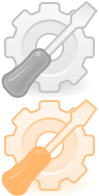
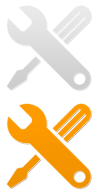
Изменил иконки разделов, поправил ховер разделов.

diff --git a/web/login.css b/web/login.css
@@ -40,8 +40,11 @@ input[type='text'], input[type='password'] {
 	margin:10px;
 }
 .logo {
-	margin: 45px 20px 0px 20px;
+	margin: 30px 50px 10px 50px;
+
+/*
 	width: 130px;
+*/
 	height: 98px;
 }
 .logo img {
@@ -52,6 +55,7 @@ input[type='text'], input[type='password'] {
 	height: 200px;
 	margin:20px;
 	display: inline-block;
+	cursor: pointer;
 }
 .name {
 	text-align: center;
@@ -61,7 +65,7 @@ input[type='text'], input[type='password'] {
 	color: #ddd;
 	text-decoration:none;
 }
-.hover, #logout :hover{
+.theme:hover, #logout :hover{
 	color: #FFA32D !important;
 	background-position: 0 -98px !important;
 }

diff --git a/web/login.js b/web/login.js
@@ -1,8 +1,6 @@
 $(function(){
 	$('#logout').click(function(){ window.location = '/login/logout';});
 
-	$('.theme').hover(
-					function(){	$('.logo, .name a', this).addClass('hover')},
-					function(){	$('.logo, .name a', this).removeClass('hover')}
-			)
+
+	$('.theme').click(function(){ window.location = $(this).find('a').attr('href') });
 })
